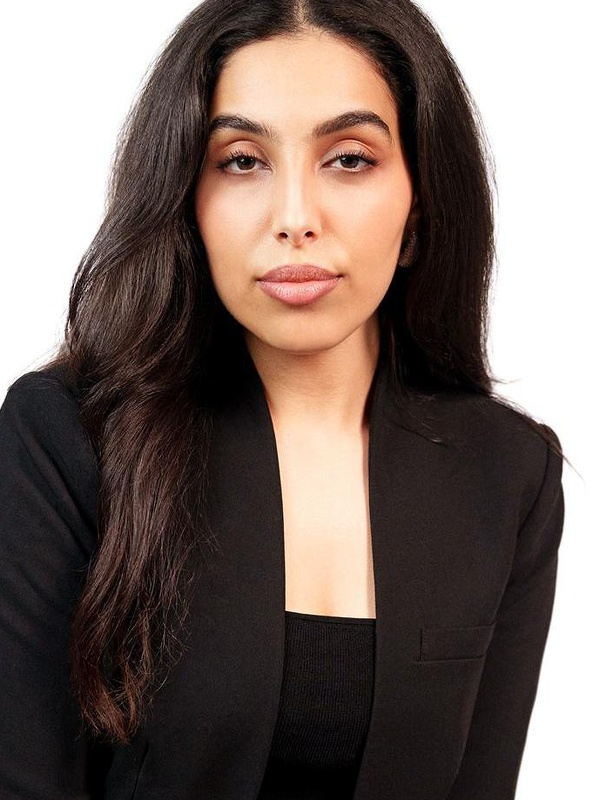
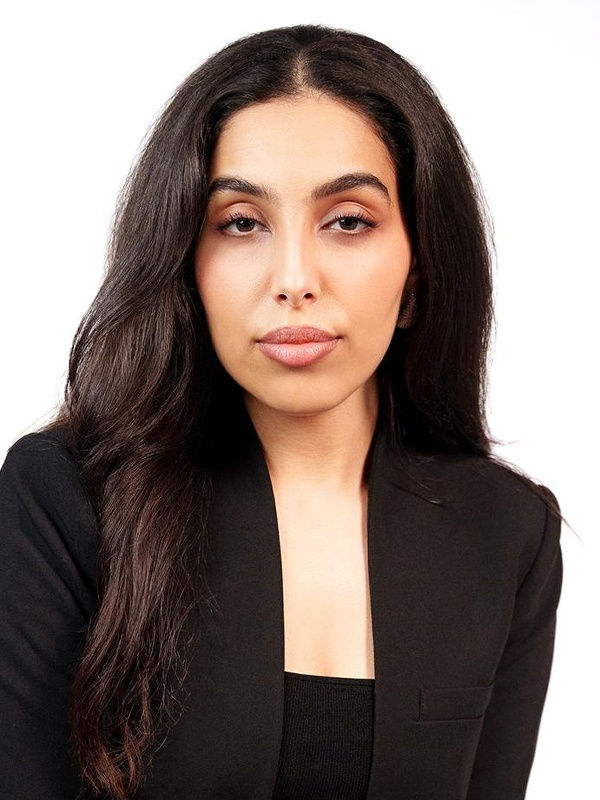
Adjust Raihane Zaghdoud face vertical position to shift it down on the card

diff --git a/scratch/adjust_rile.py b/scratch/adjust_rile.py
@@ -1,0 +1,59 @@
+import os
+import cv2
+
+dir_path = "public/images/team"
+backup_path = "public/images/team_backup/rile.jpg"
+img_path = "public/images/team/rile.jpg"
+
+# Load Haar Cascade face detector
+cascade_path = os.path.join(cv2.data.haarcascades, 'haarcascade_frontalface_default.xml')
+face_cascade = cv2.CascadeClassifier(cascade_path)
+
+# Load original image
+img = cv2.imread(backup_path)
+if img is None:
+    print("Failed to read rile.jpg from backup.")
+    exit(1)
+
+gray = cv2.cvtColor(img, cv2.COLOR_BGR2GRAY)
+faces = face_cascade.detectMultiScale(gray, scaleFactor=1.05, minNeighbors=4, minSize=(60, 60))
+h_img, w_img = img.shape[:2]
+
+if len(faces) == 0:
+    print("No face detected. Using default crop.")
+    crop_h = h_img
+    crop_w = int(crop_h * (3.0/4.0))
+    x = (w_img - crop_w) // 2
+    cropped = img[0:crop_h, x:x+crop_w]
+else:
+    faces = sorted(faces, key=lambda f: f[2] * f[3], reverse=True)
+    fx, fy, fw, fh = faces[0]
+    print(f"Face detected: x={fx}, y={fy}, w={fw}, h={fh}")
+    
+    # We want the face to occupy 36% of the card height
+    crop_h = int(fh / 0.36)
+    crop_w = int(crop_h * (3.0/4.0))
+    
+    center_x = fx + fw // 2
+    center_y = fy + fh // 2
+    
+    # Normally we used 0.42. Let's use 0.32 to shift the face down on the card (giving 32% top margin)
+    crop_y = int(center_y - crop_h * 0.32)
+    crop_x = int(center_x - crop_w // 2)
+    
+    # Clamp to image boundaries
+    if crop_y < 0:
+        crop_y = 0
+    if crop_x < 0:
+        crop_x = 0
+    if crop_y + crop_h > h_img:
+        crop_y = h_img - crop_h
+    if crop_x + crop_w > w_img:
+        crop_x = w_img - crop_w
+        
+    cropped = img[crop_y:crop_y+crop_h, crop_x:crop_x+crop_w]
+
+# Resize to standard size
+resized = cv2.resize(cropped, (600, 800), interpolation=cv2.INTER_LANCZOS4)
+cv2.imwrite(img_path, resized)
+print("rile.jpg successfully cropped and saved.")
